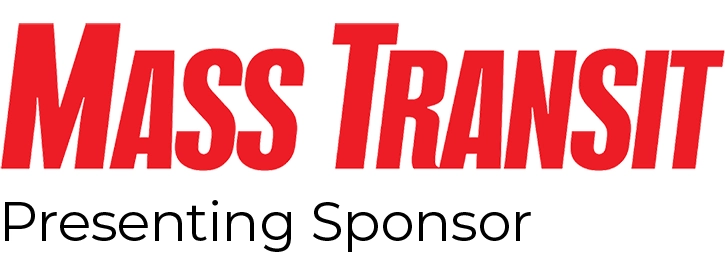
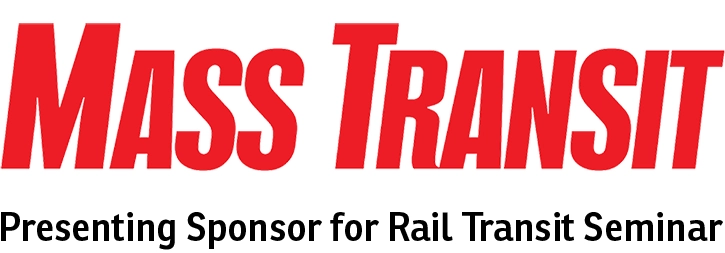
Add Interface Journal as presenting sponsor alongside Mass Transit
- Add Interface Journal logo (560px @2x for retina displays)
- Update header layout to display both presenting sponsors
- Desktop: Mass Transit (left) and Interface Journal (right, 280px)
- Mobile: Both logos side-by-side at 140px width
- Update Mass Transit logo asset

🤖 Generated with [Claude Code](https://claude.com/claude-code)

Changed region(s): [[0.0, 0.7747, 1.0, 0.996], [0.2731, 0.7747, 0.3034, 0.8024]]

diff --git a/src/components/header/index.js b/src/components/header/index.js
@@ -9,9 +9,9 @@ const Header = () => {
 
         {/* 1) Desktop/Tablet layout (≥ sm): single row, hidden on mobile */}
         <div className="items-end justify-between hidden sm:flex">
-          
-          {/* Left sponsor: Mass Transit - TEMPORARILY HIDDEN */}
-          {/* <div className="flex items-end">
+
+          {/* Left sponsor: Mass Transit - Presenting Sponsor */}
+          <div className="flex items-end">
             <a
               href="https://www.masstransitmag.com/"
               target="_blank"
@@ -19,7 +19,7 @@ const Header = () => {
             >
               <img
                 src="/mass-transit-presenting-sponsor.webp"
-                alt="Mass Transit Logo"
+                alt="Mass Transit Logo - Presenting Sponsor"
                 style={{ display: 'block' }}
                 className="
                   h-auto
@@ -29,28 +29,28 @@ const Header = () => {
                 "
               />
             </a>
-          </div> */}
+          </div>
 
           {/* Center animation */}
           <div className="flex items-end justify-center flex-grow mx-auto">
             <Animation />
           </div>
 
-          {/* Right sponsor: Sound Transit - TEMPORARILY HIDDEN */}
-          {/* <div className="flex items-end">
+          {/* Right sponsor: Interface Journal - Presenting Sponsor */}
+          <div className="flex items-end">
             <a
-              href="https://www.soundtransit.org/"
+              href="https://www.interfacejournal.com/"
               target="_blank"
               rel="noopener noreferrer"
             >
               <img
-                src="/sound-transit-local-host.webp"
-                alt="Sound Transit Logo"
+                src="/interface-journal-presenting-sponsor.webp"
+                alt="Interface Journal Logo - Presenting Sponsor"
                 style={{ display: 'block' }}
                 className="w-[280px] h-auto"
               />
             </a>
-          </div> */}
+          </div>
         </div>
 
         {/* 2) Mobile layout (< sm): single column, logos side-by-side */}
@@ -60,8 +60,8 @@ const Header = () => {
             <Animation />
           </div>
 
-          {/* Two logos side by side, bottom-aligned - TEMPORARILY HIDDEN */}
-          {/* <div className="flex items-end justify-around w-full mt-4">
+          {/* Two logos side by side, bottom-aligned */}
+          <div className="flex items-end justify-around w-full mt-4">
             <a
               href="https://www.masstransitmag.com/"
               target="_blank"
@@ -69,25 +69,25 @@ const Header = () => {
             >
               <img
                 src="/mass-transit-presenting-sponsor.webp"
-                alt="Mass Transit Logo"
+                alt="Mass Transit Logo - Presenting Sponsor"
                 style={{ display: 'block' }}
                 className="w-[140px] h-auto"
               />
             </a>
             <a
-              href="https://www.soundtransit.org/"
+              href="https://www.interfacejournal.com/"
               target="_blank"
               rel="noopener noreferrer"
               className="relative top-[-1px]"
             >
               <img
-                src="/sound-transit-local-host.png"
-                alt="Sound Transit Logo"
+                src="/interface-journal-presenting-sponsor.webp"
+                alt="Interface Journal Logo - Presenting Sponsor"
                 style={{ display: 'block' }}
                 className="w-[140px] h-auto"
               />
             </a>
-          </div> */}
+          </div>
         </div>
 
       </div>
